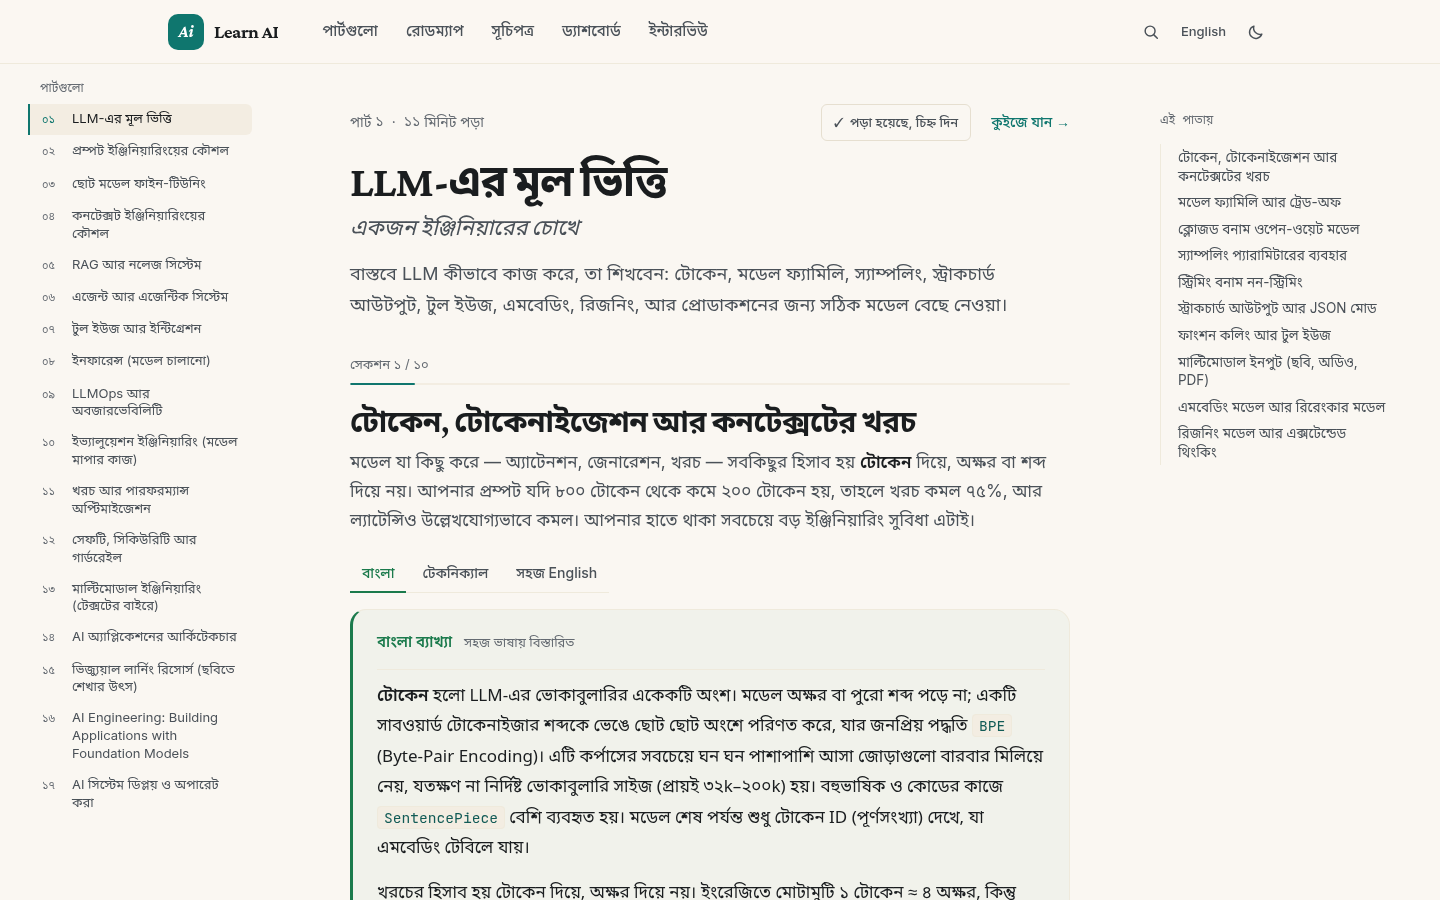
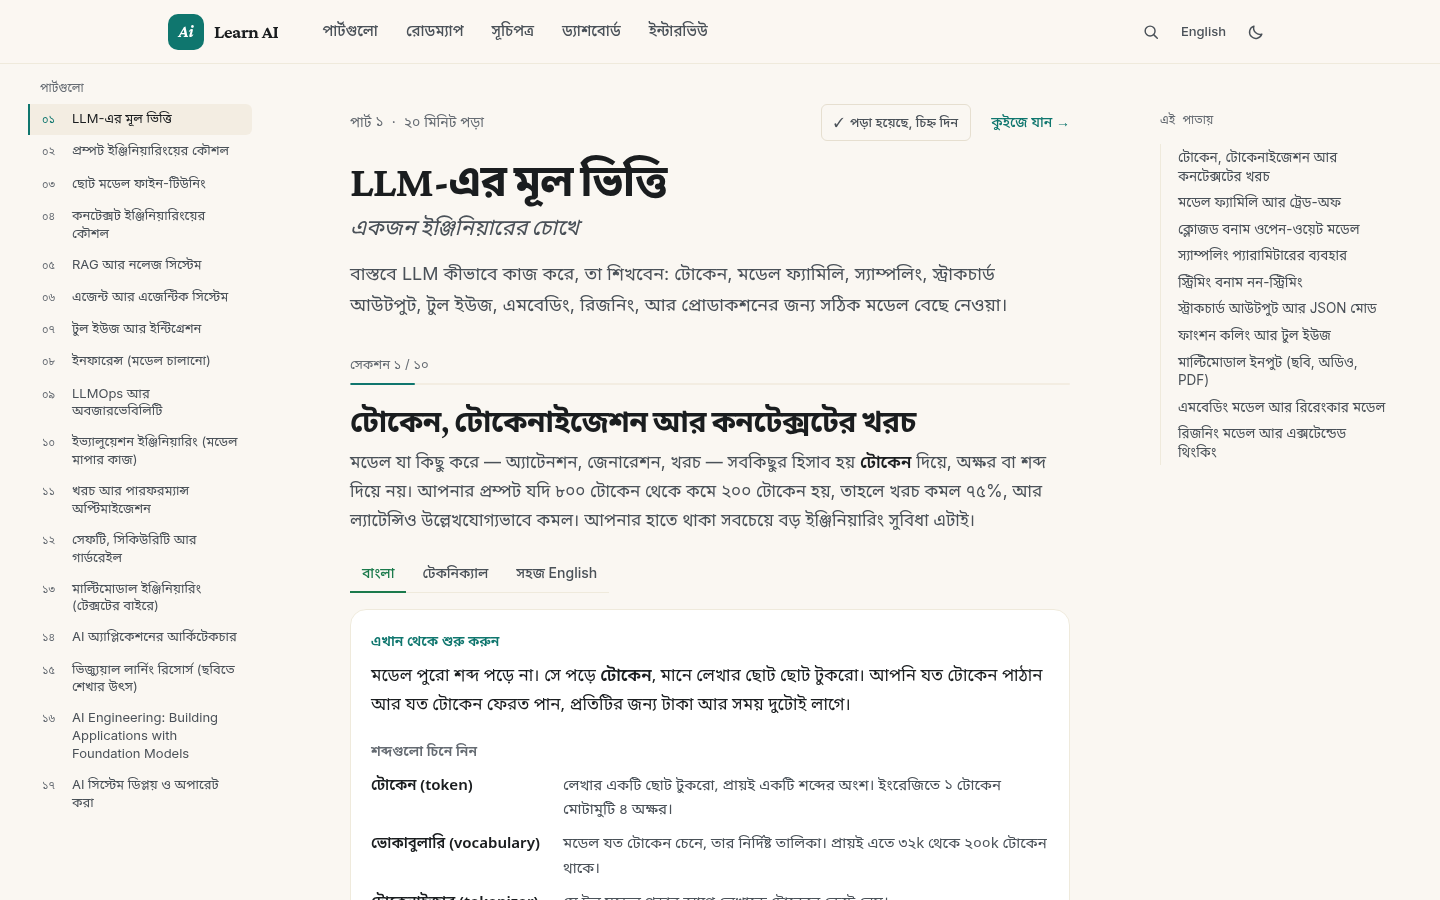
docs: show the Start here box in the README and retake its screenshots
- README: the box in the intro, the counts, the Bangla-site paragraph,
  and the docs map, and a "Start here" section with a new screenshot,
  start-here.png
- take-screenshots.mjs: a start-here shot (the voice tabs and the box).
  The voices shot hides the box, so each crop still shows its voice and
  voices.png is unchanged.
- Retaken from the new build, which changed them: topic-page,
  bangla-topic, themes, mobile-topic, mobile-menu, and search. The
  boxes are in the search index, so the "kv cache" results changed
  order.

Changed region(s): [[0.25, 0.6844, 0.7188, 1.0]]

diff --git a/README.md b/README.md
@@ -7,8 +7,9 @@
 
 A free, citation-backed reference for applied AI engineers. It is a static
 Next.js site with 17 Parts, from LLM fundamentals to deploying and operating
-AI systems. Every section comes in three voices: Technical, Layman's, and
-বাংলা. Every page exists in English and in Bangla.
+AI systems. Every section opens with a plain-words **Start here** box and
+comes in three voices: Technical, Layman's, and বাংলা. Every page exists in
+English and in Bangla.
 
 **Live site:** <https://kawsar-95.github.io/ai-learning-roadmap/> ·
 **বাংলা:** <https://kawsar-95.github.io/ai-learning-roadmap/bn/>
@@ -34,6 +35,7 @@ AI systems. Every section comes in three voices: Technical, Layman's, and
 | --- | --- |
 | Parts | 17 |
 | Sections | 113 |
+| Start here boxes | 113, one per section: the big idea, the words to know, and what to remember |
 | Cited sources | 484, from 95 sites (215 of them arXiv papers) |
 | Voices in each section | 3: Technical, Layman's, বাংলা |
 | Languages | English and Bangla, page for page |
@@ -51,7 +53,7 @@ counts at build time.
 
 ### Read one section at a time
 
-![A topic page: the list of Parts on the left, the Part header with "Mark as read" and "Go to quiz", the step bar "Section 1 of 10", the voice switcher, and the "On this page" list on the right](screenshots/topic-page.png)
+![A topic page: the list of Parts on the left, the Part header with "Mark as read" and "Go to quiz", the step bar "Section 1 of 10", the voice switcher, the top of the Start here box, and the "On this page" list on the right](screenshots/topic-page.png)
 
 - A Part opens with its reading time, a **Mark as read** button, and a link
   to its quiz.
@@ -62,6 +64,21 @@ counts at build time.
   screens and becomes a collapsed list on narrow ones.
 - Each section ends with **Bookmark** and **Mark as done**. Each Part ends
   with its numbered sources and links to the previous and next Part.
+
+### Start here
+
+![The Start here box of Part 1, section 1, under the voice tabs: the big idea in three short sentences, seven words to know with a plain meaning each, and four points to remember](screenshots/start-here.png)
+
+Every section opens with a **Start here** box, for readers who find the
+section hard:
+
+- **The big idea** in one to three everyday sentences.
+- **Words to know**: the terms the section uses, each explained in a
+  sentence, so you meet them before the text does.
+- **Remember**: the three or four points to take away.
+
+It sits above every voice. On the Bangla site, and with the বাংলা voice, it is
+in Bangla (এখান থেকে শুরু করুন).
 
 ### Three voices
 
@@ -93,7 +110,7 @@ remembers it.
 
 ### Search everything
 
-![The search palette open over a topic page with the query "kv cache" and results from Parts 15, 8, 11, 16, and 1](screenshots/search.png)
+![The search palette open over a topic page with the query "kv cache" and results from Parts 15, 8, 16, 11, and 1](screenshots/search.png)
 
 Press <kbd>Ctrl</kbd>+<kbd>K</kbd> (<kbd>⌘</kbd>+<kbd>K</kbd> on macOS)
 on any page. The search runs in the browser over one entry per section. The
@@ -146,11 +163,12 @@ GitHub repositories in 5 groups, each tied to a roadmap phase.
 
 ### English and বাংলা
 
-![The Bangla topic page: Bangla sidebar and headings, the voice switcher with বাংলা first and selected, and the Bangla explanation panel](screenshots/bangla-topic.png)
+![The Bangla topic page: Bangla sidebar and headings, the voice switcher with বাংলা first and selected, and the Bangla Start here box, এখান থেকে শুরু করুন](screenshots/bangla-topic.png)
 
 Every page has a twin under `/bn/`. On the Bangla site the interface, the
-Part and section titles, the intros, the practice tasks, and the quizzes are
-in Bangla, and sections open in the বাংলা voice unless you picked another.
+Part and section titles, the intros, the Start here boxes, the practice
+tasks, and the quizzes are in Bangla, and sections open in the বাংলা voice
+unless you picked another.
 The header button switches to the same page in the other language and
 remembers the choice.
 
@@ -317,7 +335,7 @@ A file-by-file map is in
 | Document | What it covers |
 | --- | --- |
 | [docs/architecture.md](docs/architecture.md) | Routes, the build, languages, voices, search, reader state, offline use, theme, design rules, tests, file layout |
-| [docs/content-guide.md](docs/content-guide.md) | The Part file format, block types, code and diagrams, citations, videos, live views, practice tasks, interview questions, stable ids, adding a Part |
+| [docs/content-guide.md](docs/content-guide.md) | The Part file format, Start here boxes, block types, code and diagrams, citations, videos, live views, practice tasks, interview questions, stable ids, adding a Part |
 | [docs/quizzes.md](docs/quizzes.md) | The quiz format and its rules |
 | [docs/roadmap.md](docs/roadmap.md) | The roadmap data, refreshing the curriculum lessons, learning paths, the resources page |
 | [docs/deployment.md](docs/deployment.md) | GitHub Pages, the base path, setting up a fork, previewing a build, stalled deploys, troubleshooting |

diff --git a/scripts/screenshots/README.md b/scripts/screenshots/README.md
@@ -47,7 +47,8 @@ Desktop shots are 1440 × 900 at 1x in the light theme. Phone shots are
 | --- | --- | --- | --- |
 | `home` | `/` | The hero, cropped below the counts | top |
 | `topic-page` | `/topics/llm-fundamentals/` | The first screen of Part 1 | Read one section at a time |
-| `voices` | `/topics/llm-fundamentals/` | Section 1 in each voice, three crops side by side | Three voices |
+| `start-here` | `/topics/llm-fundamentals/` | Section 1's Start here box, under the voice tabs | Start here |
+| `voices` | `/topics/llm-fundamentals/` | Section 1 in each voice, three crops side by side, with the Start here box hidden | Three voices |
 | `practice` | `/topics/llm-fundamentals/` | Section 1's practice panel, open, to the end of step 1 | Practice, videos, and a quiz |
 | `videos` | `/topics/llm-fundamentals/` | Section 1's Watch list, open: three videos, then three Shorts | Practice, videos, and a quiz |
 | `quiz` | `/topics/llm-fundamentals/#quiz` | The quiz answered with question 4 wrong, then checked: questions 4 and 5 and the score | Practice, videos, and a quiz |
